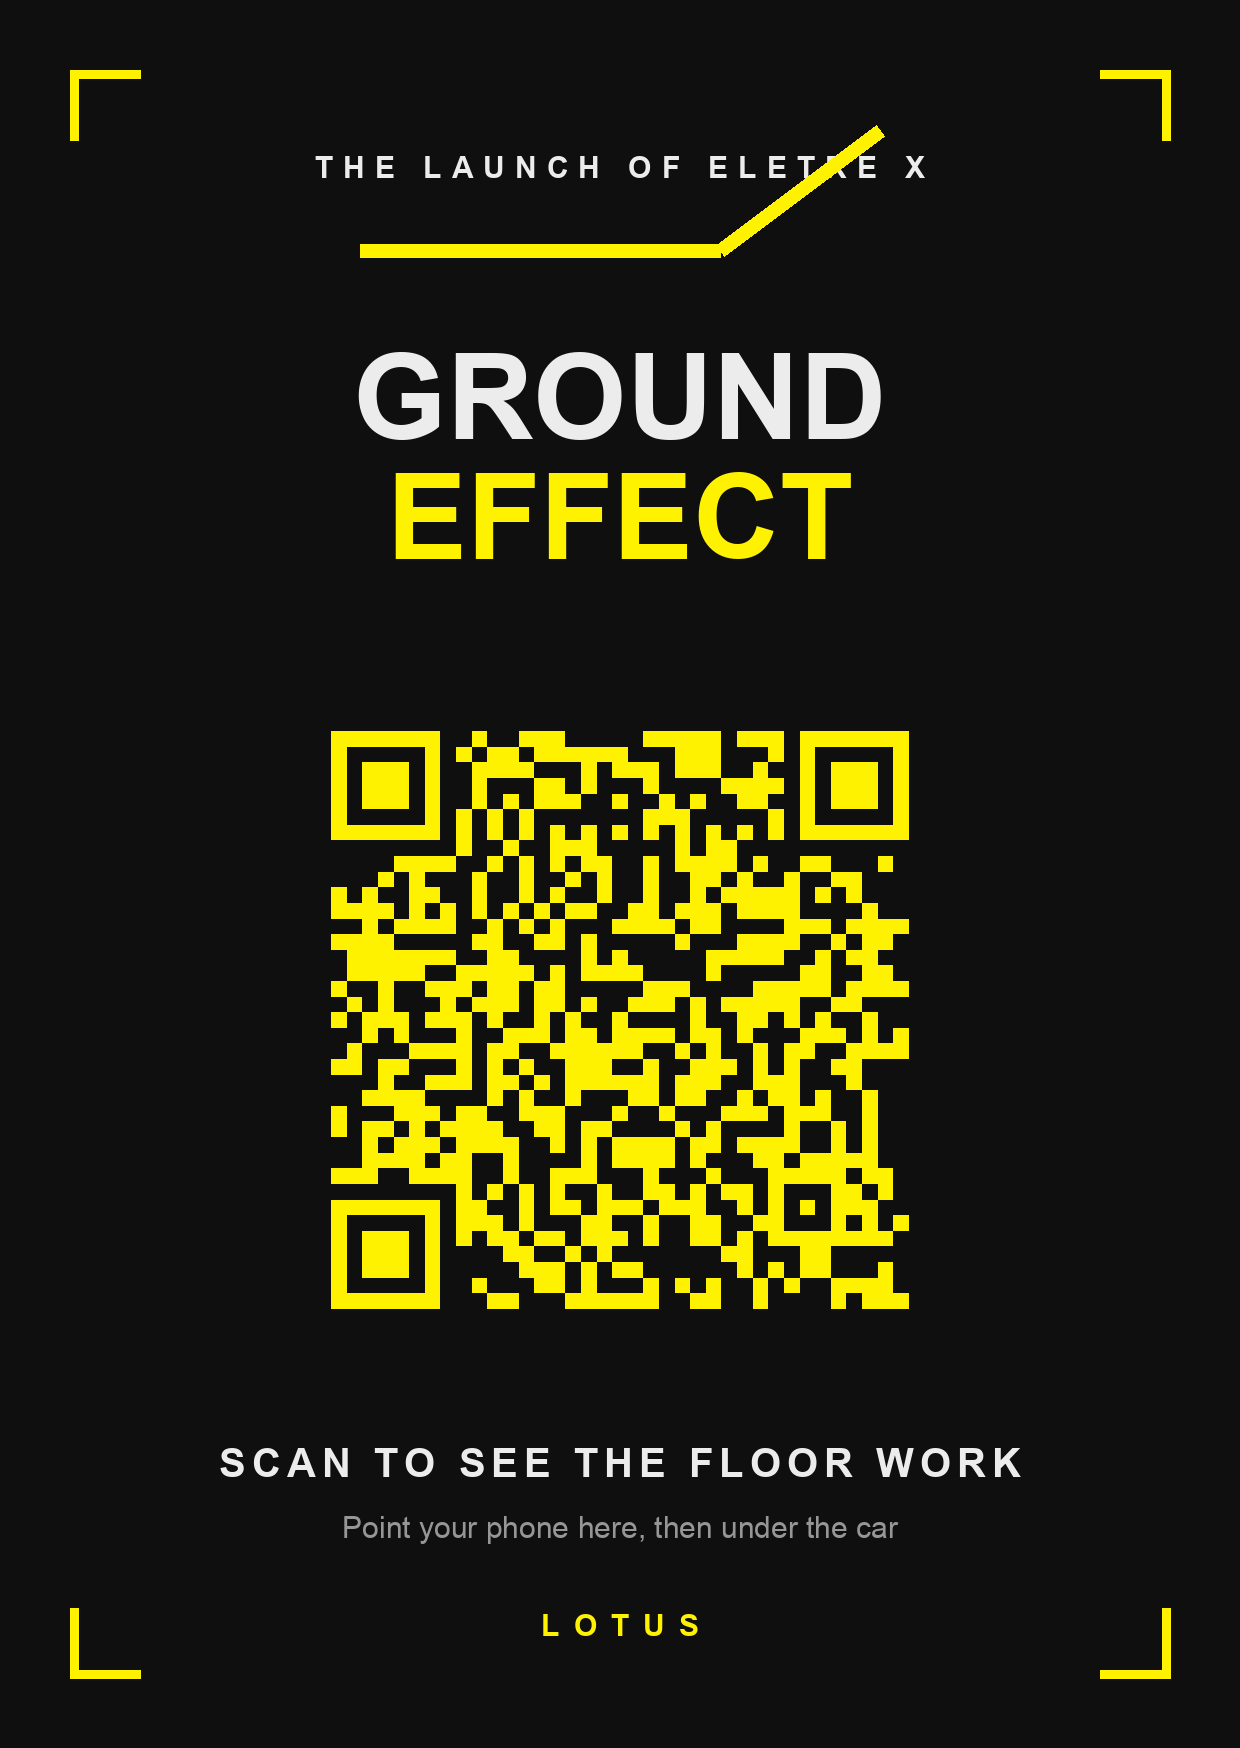
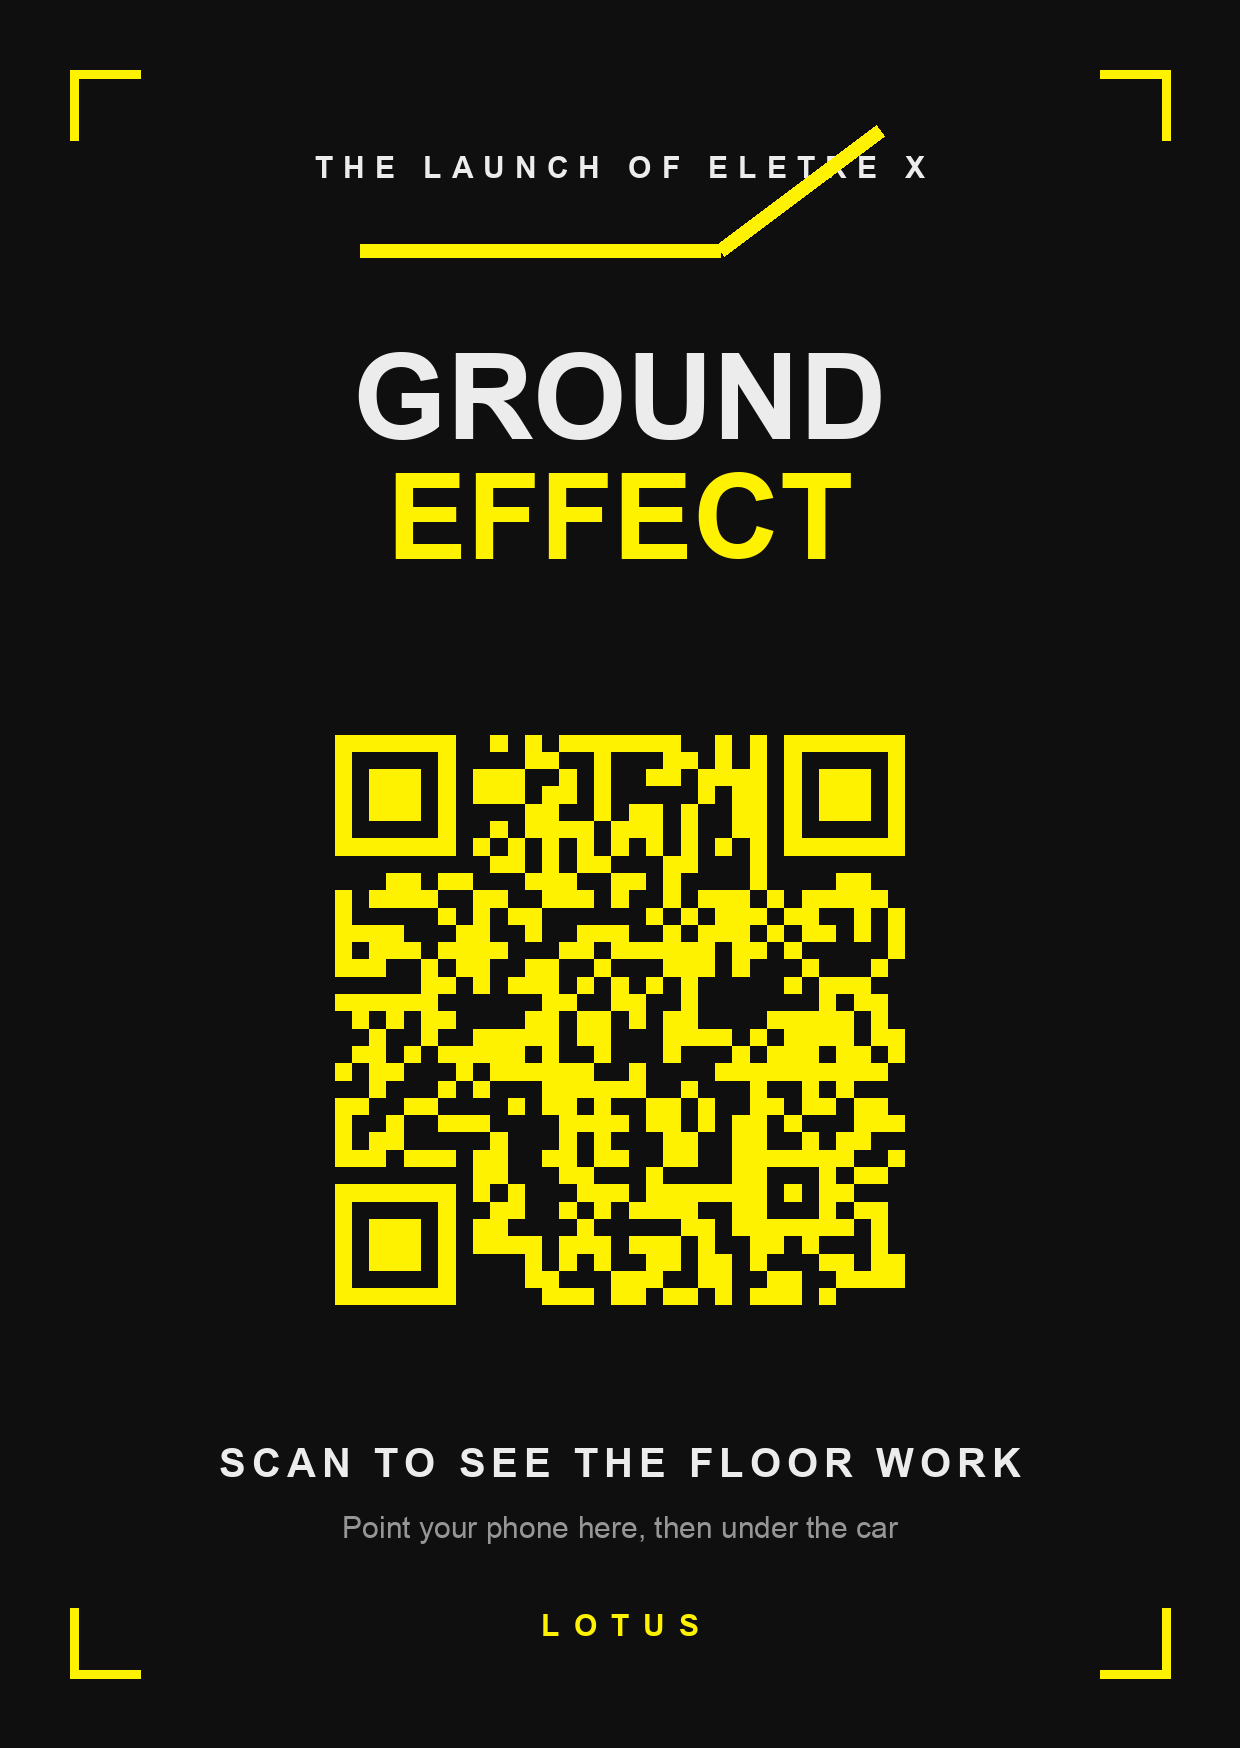
Add files via upload

Changed region(s): [[0.2452, 0.4016, 0.7355, 0.7723]]

diff --git a/index.html b/index.html
@@ -8,22 +8,14 @@
 <link rel="preconnect" href="https://fonts.gstatic.com" crossorigin>
 <link href="https://fonts.googleapis.com/css2?family=Overpass:wght@400;600;800;900&display=swap" rel="stylesheet">
 <style>
-  :root{
-    --black:#0F0F0F;
-    --yellow:#FFF200;
-    --white:#ECECEC;
-  }
+  :root{ --black:#0F0F0F; --yellow:#FFF200; --white:#ECECEC; }
   *{margin:0;padding:0;box-sizing:border-box;-webkit-tap-highlight-color:transparent}
   html,body{height:100%;background:var(--black);overflow:hidden;font-family:"Overpass",-apple-system,system-ui,sans-serif;color:var(--white)}
   #stage{position:fixed;inset:0;overflow:hidden}
 
-  /* live camera feed */
-  #cam{position:absolute;inset:0;width:100%;height:100%;object-fit:cover;background:#000;
-       transform:scale(1.02);filter:contrast(1.03) saturate(0.92) brightness(0.92)}
-  /* AR overlay */
+  #cam{position:absolute;inset:0;width:100%;height:100%;object-fit:cover;background:#000;transform:scale(1.02)}
   #fx{position:absolute;inset:0;width:100%;height:100%}
 
-  /* HUD */
   #hud{position:absolute;inset:0;pointer-events:none;opacity:0;transition:opacity .8s ease}
   #hud.on{opacity:1}
   .tick{position:absolute;width:26px;height:26px;border:2px solid var(--yellow)}
@@ -31,29 +23,24 @@
   .tr{top:18px;right:18px;border-left:none;border-bottom:none}
   .bl{bottom:18px;left:18px;border-right:none;border-top:none}
   .br{bottom:18px;right:18px;border-left:none;border-top:none}
-  .lbl{position:absolute;font-weight:800;letter-spacing:.18em;text-transform:uppercase;font-size:11px}
+  .lbl{position:absolute;font-weight:800;letter-spacing:.18em;text-transform:uppercase;font-size:11px;text-shadow:0 1px 6px rgba(0,0,0,.7)}
   #tagTop{top:26px;left:52px;color:var(--yellow)}
-  #tagState{top:26px;right:52px;color:var(--white);opacity:.8}
-  #readout{left:52px;bottom:30px;font-size:12px;line-height:1.6;color:var(--white)}
+  #tagState{top:26px;right:52px;color:var(--white);opacity:.85}
+  #readout{left:52px;bottom:30px;font-size:12px;line-height:1.6;color:var(--white);text-shadow:0 1px 6px rgba(0,0,0,.8)}
   #readout b{color:var(--yellow);font-weight:900;font-variant-numeric:tabular-nums}
-  #hint{position:absolute;bottom:30px;right:52px;text-align:right;font-size:10px;letter-spacing:.14em;text-transform:uppercase;color:var(--white);opacity:.55;max-width:44vw}
+  #hint{position:absolute;bottom:30px;right:52px;text-align:right;font-size:10px;letter-spacing:.14em;text-transform:uppercase;color:var(--white);opacity:.6;max-width:44vw;text-shadow:0 1px 6px rgba(0,0,0,.8)}
 
-  /* intro / gate */
-  #gate{position:absolute;inset:0;display:flex;flex-direction:column;justify-content:center;align-items:center;
-        text-align:center;padding:36px;background:radial-gradient(120% 80% at 50% 30%, #1a1a1a 0%, #0F0F0F 70%);z-index:5}
+  #gate{position:absolute;inset:0;display:flex;flex-direction:column;justify-content:center;align-items:center;text-align:center;padding:36px;background:radial-gradient(120% 80% at 50% 30%, #1a1a1a 0%, #0F0F0F 70%);z-index:5}
   #gate.hide{opacity:0;pointer-events:none;transition:opacity .6s ease}
   .eyebrow{font-size:11px;letter-spacing:.34em;text-transform:uppercase;color:var(--white);opacity:.7;margin-bottom:26px}
   .benderwrap{width:210px;height:66px;margin-bottom:30px}
   h1{font-weight:900;text-transform:uppercase;font-size:clamp(30px,9vw,52px);line-height:.95;letter-spacing:-.01em}
   h1 .yl{color:var(--yellow)}
   .sub{margin-top:20px;font-size:14px;line-height:1.55;max-width:300px;color:var(--white);opacity:.82;font-weight:400}
-  #go{margin-top:38px;border:none;background:var(--yellow);color:#0F0F0F;font-family:inherit;font-weight:900;
-      text-transform:uppercase;letter-spacing:.16em;font-size:14px;padding:17px 40px;border-radius:2px;cursor:pointer}
+  #go{margin-top:38px;border:none;background:var(--yellow);color:#0F0F0F;font-family:inherit;font-weight:900;text-transform:uppercase;letter-spacing:.16em;font-size:14px;padding:17px 40px;border-radius:2px;cursor:pointer}
   #go:active{transform:translateY(1px)}
-  .foot{position:absolute;bottom:20px;left:0;right:0;text-align:center;font-size:9px;letter-spacing:.24em;
-        text-transform:uppercase;color:var(--white);opacity:.4}
-  #err{position:absolute;left:0;right:0;bottom:74px;text-align:center;font-size:12px;color:var(--yellow);
-       padding:0 30px;opacity:0;transition:opacity .3s}
+  .foot{position:absolute;bottom:20px;left:0;right:0;text-align:center;font-size:9px;letter-spacing:.24em;text-transform:uppercase;color:var(--white);opacity:.4}
+  #err{position:absolute;left:0;right:0;bottom:74px;text-align:center;font-size:12px;color:var(--yellow);padding:0 30px;opacity:0;transition:opacity .3s}
   #err.on{opacity:1}
 </style>
 </head>
@@ -71,19 +58,18 @@
       DOWNFORCE&nbsp;&nbsp;<b id="rDf">000</b> kg<br>
       UNDERBODY FLOW&nbsp;&nbsp;<b id="rFl">000</b> km/h
     </div>
-    <div id="hint">Tilt your phone · sweep it under the car</div>
+    <div id="hint">Sweep across the objects in front of you</div>
   </div>
 
   <div id="gate">
     <div class="eyebrow">The Launch of Eletre X</div>
     <div class="benderwrap">
-      <!-- the straight line that bends: Lotus design DNA -->
       <svg viewBox="0 0 210 66" width="210" height="66" aria-hidden="true">
         <path d="M6 33 L120 33 Q150 33 168 12 L204 12" fill="none" stroke="#FFF200" stroke-width="6" stroke-linecap="square"/>
       </svg>
     </div>
     <h1>Ground<br><span class="yl">Effect</span></h1>
-    <div class="sub">The Type 79 won by moving the air beneath it. Point your phone under the car and watch the floor work.</div>
+    <div class="sub">The Type 79 won by moving the air beneath it. Point your phone at the car and watch the air find its edges.</div>
     <button id="go">Begin</button>
     <div id="err"></div>
     <div class="foot">Turn up brightness · Best in landscape</div>
@@ -101,130 +87,182 @@
   var errEl=document.getElementById('err');
   var W=0,H=0,DPR=Math.min(window.devicePixelRatio||1,2);
 
+  // low-res sampling buffer for edge detection
+  var sc=document.createElement('canvas');
+  var sctx=sc.getContext('2d',{willReadFrequently:true});
+  var SW=0,SH=0;             // sample grid dims
+  var MAG=null;             // edge magnitude field (0..1)
+  var GX=null, GY=null;     // gradient direction
+
   function resize(){
     W=window.innerWidth; H=window.innerHeight;
     canvas.width=W*DPR; canvas.height=H*DPR;
     canvas.style.width=W+'px'; canvas.style.height=H+'px';
     ctx.setTransform(DPR,0,0,DPR,0,0);
+    SW=140; SH=Math.max(40,Math.round(SW*H/W));
+    sc.width=SW; sc.height=SH;
+    MAG=new Float32Array(SW*SH);
+    GX=new Float32Array(SW*SH);
+    GY=new Float32Array(SW*SH);
   }
   window.addEventListener('resize',resize); resize();
 
-  // ---- device tilt -> parallax ----
-  var tiltX=0, tiltY=0, tTiltX=0, tTiltY=0;
+  // ---- device tilt -> subtle parallax on the flow ----
+  var tiltX=0,tiltY=0,tTiltX=0,tTiltY=0;
   function onOrient(e){
-    // gamma: left-right [-90,90], beta: front-back [-180,180]
-    if(e.gamma!=null) tTiltX = Math.max(-1,Math.min(1, e.gamma/45));
-    if(e.beta!=null)  tTiltY = Math.max(-1,Math.min(1, (e.beta-45)/45));
+    if(e.gamma!=null) tTiltX=Math.max(-1,Math.min(1,e.gamma/45));
+    if(e.beta!=null)  tTiltY=Math.max(-1,Math.min(1,(e.beta-45)/45));
   }
 
-  // ---- airflow particles ----
-  var P=[], N=220;
-  var floorY=0.72;      // relative y of the "ground plane" the car sits on
+  // ---- edge detection (Sobel on luminance) ----
+  function computeEdges(){
+    if(video.readyState<2) return;
+    sctx.drawImage(video,0,0,SW,SH);
+    var img;
+    try{ img=sctx.getImageData(0,0,SW,SH).data; }catch(e){ return; }
+    // grayscale
+    var gray=computeEdges._g||(computeEdges._g=new Float32Array(SW*SH));
+    for(var i=0,p=0;i<SW*SH;i++,p+=4){
+      gray[i]=(img[p]*0.299+img[p+1]*0.587+img[p+2]*0.114)/255;
+    }
+    var maxM=0.0001;
+    for(var y=1;y<SH-1;y++){
+      for(var x=1;x<SW-1;x++){
+        var o=y*SW+x;
+        var tl=gray[o-SW-1],tc=gray[o-SW],tr=gray[o-SW+1];
+        var ml=gray[o-1],       mr=gray[o+1];
+        var bl=gray[o+SW-1],bc=gray[o+SW],br=gray[o+SW+1];
+        var gx=(tr+2*mr+br)-(tl+2*ml+bl);
+        var gy=(bl+2*bc+br)-(tl+2*tc+tr);
+        var m=Math.sqrt(gx*gx+gy*gy);
+        MAG[o]=m; GX[o]=gx; GY[o]=gy;
+        if(m>maxM)maxM=m;
+      }
+    }
+    // normalise
+    for(var k=0;k<SW*SH;k++) MAG[k]=MAG[k]/maxM;
+  }
+  function sampleMag(px,py){
+    var x=px/W*SW, y=py/H*SH;
+    var xi=x|0, yi=y|0;
+    if(xi<0||yi<0||xi>=SW||yi>=SH) return 0;
+    return MAG[yi*SW+xi];
+  }
+
+  // ---- flow particles ----
+  var P=[], N=130, TRAIL=9;
   function seed(){
     P.length=0;
-    for(var i=0;i<N;i++) P.push(newP(true));
+    for(var i=0;i<N;i++) P.push(newP(Math.random()*W));
   }
-  function newP(spread){
+  function newP(startX){
+    var y=Math.random()*H;
     return {
-      x: spread? Math.random() : -0.05 - Math.random()*0.3,
-      y: 0.30 + Math.random()*0.5,
-      v: 0.0016 + Math.random()*0.0022,
-      w: 0.4 + Math.random()*1.4,
-      a: 0.15 + Math.random()*0.5,
-      life: 0
+      x:startX, y:y,
+      vx:0.9+Math.random()*1.4, vy:(Math.random()-0.5)*0.3,
+      w:0.6+Math.random()*1.1,
+      hist:[],
+      life:0, max:220+Math.random()*260
     };
   }
 
-  // ghosted low-slung car underbody silhouette (relative coords), drawn as a diffuser wedge
-  function drawCar(cx, cw){
-    var y=floorY*H;
-    var carW=cw*W, x0=cx*W-carW/2;
-    ctx.save();
-    ctx.globalCompositeOperation='lighter';
-    // underbody glow line
-    var g=ctx.createLinearGradient(x0,0,x0+carW,0);
-    g.addColorStop(0,'rgba(255,242,0,0)');
-    g.addColorStop(.5,'rgba(255,242,0,.5)');
-    g.addColorStop(1,'rgba(255,242,0,0)');
-    ctx.strokeStyle=g; ctx.lineWidth=2;
-    // body top curve
-    ctx.beginPath();
-    ctx.moveTo(x0, y-6);
-    ctx.quadraticCurveTo(x0+carW*0.22, y-64, x0+carW*0.5, y-70);
-    ctx.quadraticCurveTo(x0+carW*0.80, y-66, x0+carW, y-8);
-    ctx.stroke();
-    // floor / diffuser line
-    ctx.strokeStyle='rgba(255,242,0,.28)';
-    ctx.beginPath();
-    ctx.moveTo(x0-20, y);
-    ctx.lineTo(x0+carW*0.82, y);
-    ctx.lineTo(x0+carW, y-18); // diffuser kick-up
-    ctx.stroke();
-    ctx.restore();
-    return {x0:x0, y:y, w:carW};
-  }
-
-  var running=false, t=0;
-  var dfEl=document.getElementById('rDf'), flEl=document.getElementById('rFl');
-  var dfShown=0, flShown=0;
+  var running=false,t=0,edgeTick=0;
+  var dfEl=document.getElementById('rDf'),flEl=document.getElementById('rFl');
+  var dfShown=0,flShown=0;
 
   function frame(){
     if(!running) return;
     t++;
-    // ease tilt
-    tiltX += (tTiltX-tiltX)*0.06;
-    tiltY += (tTiltY-tiltY)*0.06;
+    tiltX+=(tTiltX-tiltX)*0.06; tiltY+=(tTiltY-tiltY)*0.06;
 
-    // motion-blur fade instead of hard clear
-    ctx.globalCompositeOperation='source-over';
-    ctx.fillStyle='rgba(15,15,15,0.18)';
-    ctx.fillRect(0,0,W,H);
+    // refresh edges a few times a second (cheap)
+    if((edgeTick++ %3)===0) computeEdges();
 
-    var px = tiltX*38, py = tiltY*24;
-    var car = drawCar(0.5 + tiltX*0.05, 0.62);
-
-    // airflow
+    // FULLY transparent clear -> camera always shows through
+    ctx.clearRect(0,0,W,H);
     ctx.globalCompositeOperation='lighter';
-    for(var i=0;i<P.length;i++){
-      var p=P[i];
-      // accelerate as it passes under the car floor (ground effect: squeeze = speed up)
-      var underCar = (p.x*W > car.x0 && p.x*W < car.x0+car.w);
-      var floorPull = 0;
-      var yPix = p.y*H;
-      var speed = p.v;
-      if(yPix > car.y-70 && yPix < car.y+8){
-        // pull flow toward the floor gap and speed it
-        floorPull = ((car.y-24) - yPix) * 0.0009;
-        if(underCar) speed *= 2.3;
+
+    // ---- 1) trace electric outlines on the real-world edges ----
+    var edgePath=new Path2D();
+    var step=2, TH=0.16;
+    for(var y=1;y<SH-1;y+=step){
+      for(var x=1;x<SW-1;x+=step){
+        var o=y*SW+x, m=MAG[o];
+        if(m<TH) continue;
+        // draw a short segment ALONG the edge (perpendicular to gradient)
+        var gx=GX[o],gy=GY[o];
+        var len=Math.sqrt(gx*gx+gy*gy)||1;
+        var tx=-gy/len, ty=gx/len;               // tangent
+        var cx=x/SW*W, cy=y/SH*H;
+        var s=(3+m*6);
+        edgePath.moveTo(cx-tx*s, cy-ty*s);
+        edgePath.lineTo(cx+tx*s, cy+ty*s);
       }
-      var nx = p.x + speed;
-      var ny = p.y + floorPull*0.4 + Math.sin((p.x*8)+(t*0.02))*0.0006;
+    }
+    // glow pass + core pass
+    ctx.strokeStyle='rgba(255,242,0,0.16)'; ctx.lineWidth=4.5; ctx.lineCap='round'; ctx.stroke(edgePath);
+    ctx.strokeStyle='rgba(255,255,210,0.5)'; ctx.lineWidth=1.2; ctx.stroke(edgePath);
 
-      var sx = nx*W + px;
-      var sy = ny*H + py;
-      var len = 10 + speed*6000;
+    // ---- 2) airflow that weaves AROUND the objects ----
+    var trail=new Path2D(), core=new Path2D();
+    var px=tiltX*10, py=tiltY*8;
+    for(var i=0;i<P.length;i++){
+      var pt=P[i];
+      // steer toward lower edge energy (go around cluttered / solid areas)
+      var ahead=14;
+      var nx=pt.x+pt.vx*ahead, ny=pt.y+pt.vy*ahead;
+      var mL=sampleMag(nx - pt.vy*ahead, ny + pt.vx*ahead); // left normal
+      var mR=sampleMag(nx + pt.vy*ahead, ny - pt.vx*ahead); // right normal
+      var mC=sampleMag(nx,ny);
+      var turn=(mL-mR)*0.9;                 // veer to the calmer side
+      // rotate velocity by turn
+      var cs=Math.cos(turn*0.12), sn=Math.sin(turn*0.12);
+      var vx=pt.vx*cs-pt.vy*sn, vy=pt.vx*sn+pt.vy*cs;
+      // slow down piling into an edge, speed up in open air (ground-effect squeeze)
+      var sp=1-mC*0.7;
+      vx*=(0.9+sp*0.25);
+      // gentle bias back toward horizontal flow + tiny electric jitter
+      vy=vy*0.96+(Math.random()-0.5)*0.06;
+      vx=vx*0.96+ (1.15)*0.04;
+      pt.vx=vx; pt.vy=vy;
+      pt.x+=vx; pt.y+=vy;
 
-      var grd=ctx.createLinearGradient(sx-len,sy,sx,sy);
-      grd.addColorStop(0,'rgba(255,242,0,0)');
-      grd.addColorStop(1,'rgba(255,242,0,'+p.a+')');
-      ctx.strokeStyle=grd;
-      ctx.lineWidth=p.w;
-      ctx.beginPath();
-      ctx.moveTo(sx-len,sy);
-      ctx.lineTo(sx,sy);
-      ctx.stroke();
+      pt.hist.push(pt.x+px, pt.y+py);
+      if(pt.hist.length>TRAIL*2) pt.hist.splice(0,2);
 
-      p.x=nx; p.y=ny; p.life++;
-      if(p.x>1.1 || p.life>900){ P[i]=newP(false); }
+      var h=pt.hist;
+      if(h.length>=4){
+        trail.moveTo(h[0],h[1]);
+        for(var j=2;j<h.length;j+=2) trail.lineTo(h[j],h[j+1]);
+        // bright core = last 3 pts
+        var st=Math.max(0,h.length-6);
+        core.moveTo(h[st],h[st+1]);
+        for(var k=st+2;k<h.length;k+=2) core.lineTo(h[k],h[k+1]);
+      }
+
+      pt.life++;
+      if(pt.x>W+20 || pt.x<-20 || pt.y<-20 || pt.y>H+20 || pt.life>pt.max){
+        P[i]=newP(-10);
+      }
+    }
+    // electric styling: wide yellow bloom, white-hot core, spark heads
+    ctx.strokeStyle='rgba(255,242,0,0.22)'; ctx.lineWidth=5; ctx.lineCap='round'; ctx.stroke(trail);
+    ctx.strokeStyle='rgba(255,240,120,0.55)'; ctx.lineWidth=2; ctx.stroke(trail);
+    ctx.strokeStyle='rgba(255,255,255,0.9)'; ctx.lineWidth=1; ctx.stroke(core);
+
+    // spark heads
+    ctx.fillStyle='rgba(255,255,255,0.9)';
+    for(var s2=0;s2<P.length;s2+=1){
+      var pp=P[s2];
+      ctx.fillRect(pp.x+px-1, pp.y+py-1, 2.2, 2.2);
     }
 
-    // live readout numbers (tilt-reactive, feels alive)
-    var targetDf = 380 + Math.round(Math.abs(tiltY)*260 + Math.sin(t*0.03)*18);
-    var targetFl = 210 + Math.round(Math.abs(tiltX)*120 + Math.cos(t*0.04)*10);
-    dfShown += (targetDf-dfShown)*0.08;
-    flShown += (targetFl-flShown)*0.08;
-    dfEl.textContent = String(Math.round(dfShown)).padStart(3,'0');
-    flEl.textContent = String(Math.round(flShown)).padStart(3,'0');
+    // ---- readout ----
+    var targetDf=380+Math.round(Math.abs(tiltY)*260+Math.sin(t*0.03)*18);
+    var targetFl=210+Math.round(Math.abs(tiltX)*120+Math.cos(t*0.04)*10);
+    dfShown+=(targetDf-dfShown)*0.08; flShown+=(targetFl-flShown)*0.08;
+    dfEl.textContent=String(Math.round(dfShown)).padStart(3,'0');
+    flEl.textContent=String(Math.round(flShown)).padStart(3,'0');
 
     requestAnimationFrame(frame);
   }
@@ -232,22 +270,16 @@
   function showErr(m){ errEl.textContent=m; errEl.classList.add('on'); }
 
   async function begin(){
-    // 1) motion permission (iOS 13+)
     try{
-      if(typeof DeviceOrientationEvent!=='undefined' &&
-         typeof DeviceOrientationEvent.requestPermission==='function'){
+      if(typeof DeviceOrientationEvent!=='undefined' && typeof DeviceOrientationEvent.requestPermission==='function'){
         var s=await DeviceOrientationEvent.requestPermission();
         if(s==='granted') window.addEventListener('deviceorientation',onOrient,true);
-      } else {
-        window.addEventListener('deviceorientation',onOrient,true);
-      }
-    }catch(e){ /* motion optional */ }
+      } else { window.addEventListener('deviceorientation',onOrient,true); }
+    }catch(e){}
 
-    // 2) camera
     try{
       var stream=await navigator.mediaDevices.getUserMedia({
-        video:{ facingMode:{ ideal:'environment' }, width:{ideal:1280}, height:{ideal:720} },
-        audio:false
+        video:{ facingMode:{ideal:'environment'}, width:{ideal:1280}, height:{ideal:720} }, audio:false
       });
       video.srcObject=stream;
       await video.play();

diff --git a/make_qr.py b/make_qr.py
@@ -7,7 +7,7 @@ from PIL import Image, ImageDraw, ImageFont
 import os
 
 # ---- EDIT THIS to your live HTTPS url once deployed ----
-URL = "https://lotus-ground-effect.netlify.app"
+URL = "https://f1-ar-lotus.netlify.app"
 
 BLACK  = (15, 15, 15)
 YELLOW = (255, 242, 0)
